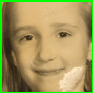
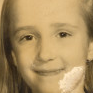
remove green rectangle on cropped face

Changed region(s): [[0.0, 0.0, 1.0, 1.0]]

diff --git a/python/gui.py b/python/gui.py
@@ -8,94 +8,96 @@ import Image, ImageTk
 from tkFileDialog import askopenfilename
 from inpainting import *
 
+
 def filePicker():
     tk.Tk().withdraw()
-    filename = askopenfilename(initialdir=os.path.join( os.getcwd(), '../data/images' ))
+    filename = askopenfilename(initialdir=os.path.join(os.getcwd(), '../data/images'))
     return filename
 
-
 class ToolBar():
-	def __init__(self,master):
-		self.master = master
-		self.frame = tk.Frame(self.master)
-		self.canvas = tk.Canvas(master, width=130, height=300)
-		self.canvas.pack()
-		self.master.title("Toolbar")
-		self.master.maxsize(130,300)
-		self.master.minsize(130,300)
+    def __init__(self, master):
+        self.master = master
+        self.frame = tk.Frame(self.master)
+        self.canvas = tk.Canvas(master, width=130, height=300)
+        self.canvas.pack()
+        self.master.title("Toolbar")
+        self.master.maxsize(130, 300)
+        self.master.minsize(130, 300)
 
-		self.brush_selected_image = tk.PhotoImage(file="../assets/paint_selected.png")
-		self.brush_not_selected_image = tk.PhotoImage(file="../assets/paint_not_selected.png")
-		self.rectangle_selected_image = tk.PhotoImage(file="../assets/rectangle_selected.png")
-		self.rectangle_not_selected_image = tk.PhotoImage(file="../assets/rectangle_not_selected.png")
-		
-		self.brush_button = tk.Button(self.canvas, image=self.brush_selected_image,command=(self.select_paintbrush))
-		self.brush_button.pack(side=tk.LEFT,padx=5,pady=5)
-		self.rectangle_button = tk.Button(self.canvas, image=self.rectangle_not_selected_image,command=(self.select_rectangle_tool))
-		self.rectangle_button.pack(side=tk.RIGHT,padx=5,pady=5)
-		
-		self.brush_size = 5
+        self.brush_selected_image = tk.PhotoImage(file="../assets/paint_selected.png")
+        self.brush_not_selected_image = tk.PhotoImage(file="../assets/paint_not_selected.png")
+        self.rectangle_selected_image = tk.PhotoImage(file="../assets/rectangle_selected.png")
+        self.rectangle_not_selected_image = tk.PhotoImage(file="../assets/rectangle_not_selected.png")
 
-		self.brush_slider = tk.Scale(self.master, from_=1, to=10, orient=tk.HORIZONTAL,variable=self.brush_size,command=(self.change_slider_value))
-		self.brush_slider.set(5)
-		self.brush_slider.pack()
+        self.brush_button = tk.Button(self.canvas, image=self.brush_selected_image, command=(self.select_paintbrush))
+        self.brush_button.pack(side=tk.LEFT, padx=5, pady=5)
+        self.rectangle_button = tk.Button(self.canvas, image=self.rectangle_not_selected_image,
+                                          command=(self.select_rectangle_tool))
+        self.rectangle_button.pack(side=tk.RIGHT, padx=5, pady=5)
 
-		self.brush_size_image = tk.PhotoImage(file="../assets/brushsize_4.png")
-		self.brush_size_label = tk.Label(self.master,image=self.brush_size_image)
-		self.brush_size_label.pack()
+        self.brush_size = 5
 
-		self.rectangle_selected = False
-		self.brush_selected = True
+        self.brush_slider = tk.Scale(self.master, from_=1, to=10, orient=tk.HORIZONTAL, variable=self.brush_size,
+                                     command=(self.change_slider_value))
+        self.brush_slider.set(5)
+        self.brush_slider.pack()
 
-		self.save_mask_button = tk.Button(self.master,text="Save Mask")
-		self.save_mask_button.pack(side=tk.BOTTOM,fill=tk.X)
-		self.restore_button = tk.Button(self.master,text="Restore")
-		self.restore_button.pack(side=tk.BOTTOM,fill=tk.X)
+        self.brush_size_image = tk.PhotoImage(file="../assets/brushsize_4.png")
+        self.brush_size_label = tk.Label(self.master, image=self.brush_size_image)
+        self.brush_size_label.pack()
 
-	def select_paintbrush(self):
-		if not self.brush_selected:
-			self.brush_button["image"] = self.brush_selected_image
-			self.brush_selected = True
+        self.rectangle_selected = False
+        self.brush_selected = True
 
-			self.toggle_on_paintbrush_slider()
+        self.save_mask_button = tk.Button(self.master, text="Save Mask")
+        self.save_mask_button.pack(side=tk.BOTTOM, fill=tk.X)
+        self.restore_button = tk.Button(self.master, text="Restore")
+        self.restore_button.pack(side=tk.BOTTOM, fill=tk.X)
 
-			self.rectangle_button["image"] = self.rectangle_not_selected_image
-			self.rectangle_selected = False
+    def select_paintbrush(self):
+        if not self.brush_selected:
+            self.brush_button["image"] = self.brush_selected_image
+            self.brush_selected = True
 
+            self.toggle_on_paintbrush_slider()
 
-	def select_rectangle_tool(self):
-		if not self.rectangle_selected:
-			self.rectangle_button["image"] = self.rectangle_selected_image
-			self.rectangle_selected = True
-			
-			self.toggle_off_paintbrush_slider()
+            self.rectangle_button["image"] = self.rectangle_not_selected_image
+            self.rectangle_selected = False
 
-			self.brush_button["image"] = self.brush_not_selected_image
-			self.brush_selected = False
-	
-	def select_paintbrush_size(self):
-		pass
+    def select_rectangle_tool(self):
+        if not self.rectangle_selected:
+            self.rectangle_button["image"] = self.rectangle_selected_image
+            self.rectangle_selected = True
 
+            self.toggle_off_paintbrush_slider()
 
-	def toggle_off_paintbrush_slider(self):
-		self.brush_slider.pack_forget()
-		self.brush_size_label.pack_forget()
+            self.brush_button["image"] = self.brush_not_selected_image
+            self.brush_selected = False
 
-	def toggle_on_paintbrush_slider(self):
-		self.brush_slider.pack()
-		self.brush_size_label.pack()
+    def select_paintbrush_size(self):
+        pass
 
-	def change_slider_value(self,val):
-		self.brush_size_image = tk.PhotoImage(file="../assets/brushsize_" + str(val) + ".png")
-		self.brush_size_label["image"] = self.brush_size_image
+    def toggle_off_paintbrush_slider(self):
+        self.brush_slider.pack_forget()
+        self.brush_size_label.pack_forget()
 
-	def close_window(self):
-		self.master.destroy()
+    def toggle_on_paintbrush_slider(self):
+        self.brush_slider.pack()
+        self.brush_size_label.pack()
+
+    def change_slider_value(self, val):
+        self.brush_size_image = tk.PhotoImage(file="../assets/brushsize_" + str(val) + ".png")
+        self.brush_size_label["image"] = self.brush_size_image
+
+    def close_window(self):
+        self.master.destroy()
 
 
 class App():
     def __init__(self, master):
         self.master = master
+        self.toolbar = ToolBar(tk.Toplevel(self.master))
+
         self.file = filePicker()
         self.crop_face()
         self.orig_img = Image.open(self.file)
@@ -107,8 +109,8 @@ class App():
         self.canvas.pack()
         self.x = 0
         self.y = 0
-        self.select_windows=[]
-        self.current_window=[]
+        self.select_windows = []
+        self.current_window = []
 
         self.rect = None
         self.start_x = None
@@ -118,13 +120,15 @@ class App():
         self.canvas.bind("<ButtonRelease-1>", self.on_button_release)
         self._draw_image()
 
-        self.points_pool=[]
+        self.face_coordinate = None
+        self.points_pool = []
         # import_button = tk.Button(self.master, text="select photo", command=(lambda : SelectAndShowImage(root))).pack(fill=tk.X, side = tk.TOP, )
-        # pick_button = tk.Button(self.master,text="select masks").pack(fill=tk.X, side = tk.TOP)
-        save_button = tk.Button(self.master,text="save masks",command=(self.save_mask)).pack(fill=tk.X, side = tk.TOP)#this is intermediate , will delete later
-        restore_button = tk.Button(self.master,text="restore",command=(lambda : inpaint(self.file,self.mask_path))).pack(fill=tk.X, side = tk.TOP)
-        
-        toolbar = ToolBar(tk.Toplevel(self.master))
+
+        save_button = tk.Button(self.master, text="save masks", command=(self.save_mask)).pack(fill=tk.X,
+                                                                                               side=tk.TOP)  # this is intermediate , will delete later
+        restore_button = tk.Button(self.master, text="restore",
+                                   command=(lambda: inpaint(self.file, self.mask_path))).pack(fill=tk.X, side=tk.TOP)
+
 
         self.master.mainloop()
 
@@ -133,14 +137,14 @@ class App():
         curr_path = os.getcwd()
         imagePath = self.file
         cascPath = curr_path.replace("/python", "/data/cascade/haarcascade_frontalface_default.xml")
-        face_path= curr_path.replace("/python", "/data/images/face_cropped/")
-        oldfileName = (self.file)[(self.file).rfind("/")+1:-4]
-        face_filename = face_path+oldfileName+"_face.png"
+        face_path = curr_path.replace("/python", "/data/images/face_cropped/")
+        oldfileName = (self.file)[(self.file).rfind("/") + 1:-4]
+        face_filename = face_path + oldfileName + "_face.png"
         print face_filename
         # Create the haar cascade
         faceCascade = cv2.CascadeClassifier(cascPath)
-# /home/wenchen/frameworks/projects/PhotoRestoration/data/images/face_cropped
-# /home/wenchen/frameworks/projects/PhotoRestoration/data/face_cropped/original_female_potrait_face.png
+        # /home/wenchen/frameworks/projects/PhotoRestoration/data/images/face_cropped
+        # /home/wenchen/frameworks/projects/PhotoRestoration/data/face_cropped/original_female_potrait_face.png
         # Read the image
         image = cv2.imread(imagePath)
         gray = cv2.cvtColor(image, cv2.COLOR_BGR2GRAY)
@@ -151,49 +155,45 @@ class App():
             scaleFactor=1.1,
             minNeighbors=5,
             minSize=(30, 30),
-            flags = cv2.CASCADE_SCALE_IMAGE
+            flags=cv2.CASCADE_SCALE_IMAGE
         )
 
         print "Found {0} faces!".format(len(faces))
 
         # Draw a rectangle around the faces
         for (x, y, w, h) in faces:
-            cv2.rectangle(image, (x, y), (x+w, y+h), (0, 255, 0), 2)
-            cv2.imwrite(face_filename,image[y:y+h,x:x+w])
+            self.face_coordinate = (x, y, w, h)
+            # cv2.rectangle(image, (x, y), (x + w, y + h), (0, 255, 0), 2)
+            cv2.imwrite(face_filename, image[y:y + h, x:x + w])
         # cv2.imshow("Faces found", image)
         cv2.waitKey(0)
-    def save_mask(self):
 
+    def save_mask(self):
         curr_path = os.getcwd()
         new_path = curr_path.replace("/python", "/data/images/mask/")
-        oldfileName = (self.file)[(self.file).rfind("/")+1:-4]
+        oldfileName = (self.file)[(self.file).rfind("/") + 1:-4]
         output = ImageOps.fit(self.mask, self.orig_img.size, centering=(0.5, 0.5))
         draw = ImageDraw.Draw(self.mask)
 
-        # for window in self.select_windows:
-        #     draw.rectangle(window,fill="white")
-        # print self.select_windows
-        # for point in self.points_pool:
-        draw.polygon(self.points_pool,fill="white")
-        # print self.select_windows
+        draw.polygon(self.points_pool, fill="white")
 
         output.paste(self.mask)
-        self.mask_path = new_path+oldfileName+"_mask.png"
+        self.mask_path = new_path + oldfileName + "_mask.png"
         output.save(self.mask_path)
         print "saved mask"
 
     def _draw_image(self):
-         self.canvas.create_image(0,0,anchor="nw",image=self.tk_img)
+        self.canvas.create_image(0, 0, anchor="nw", image=self.tk_img)
 
     def on_button_press(self, event):
         # save mouse drag start position
         self.start_x = event.x
         self.start_y = event.y
         # self.current_window.append((self.start_x,self.start_y))
-        self.points_pool.append((event.x,event.y))
-        print "appending start",(event.x,event.y)
+        self.points_pool.append((event.x, event.y))
+        print "appending start", (event.x, event.y)
         # create rectangle if not yet exist
-        #if not self.rect:
+        # if not self.rect:
         self.rect = self.canvas.create_line(self.x, self.y, 1, 1, fill="white")
 
     def on_move_press(self, event):
@@ -201,15 +201,17 @@ class App():
 
         # expand rectangle as you drag the mouse
         self.canvas.coords(self.rect, self.start_x, self.start_y, curX, curY)
+
     def on_button_release(self, event):
         # self.current_window.append((event.x,event.y))
         # self.select_windows.append(self.current_window)
         # self.current_window=[]
-        self.points_pool.append((event.x,event.y))
-        print "appending end",(event.x,event.y)
+        self.points_pool.append((event.x, event.y))
+        print "appending end", (event.x, event.y)
 
     def switch_draw_method(self):
-		pass    	
+        pass
+
 
 root = tk.Tk()
 App(root)
